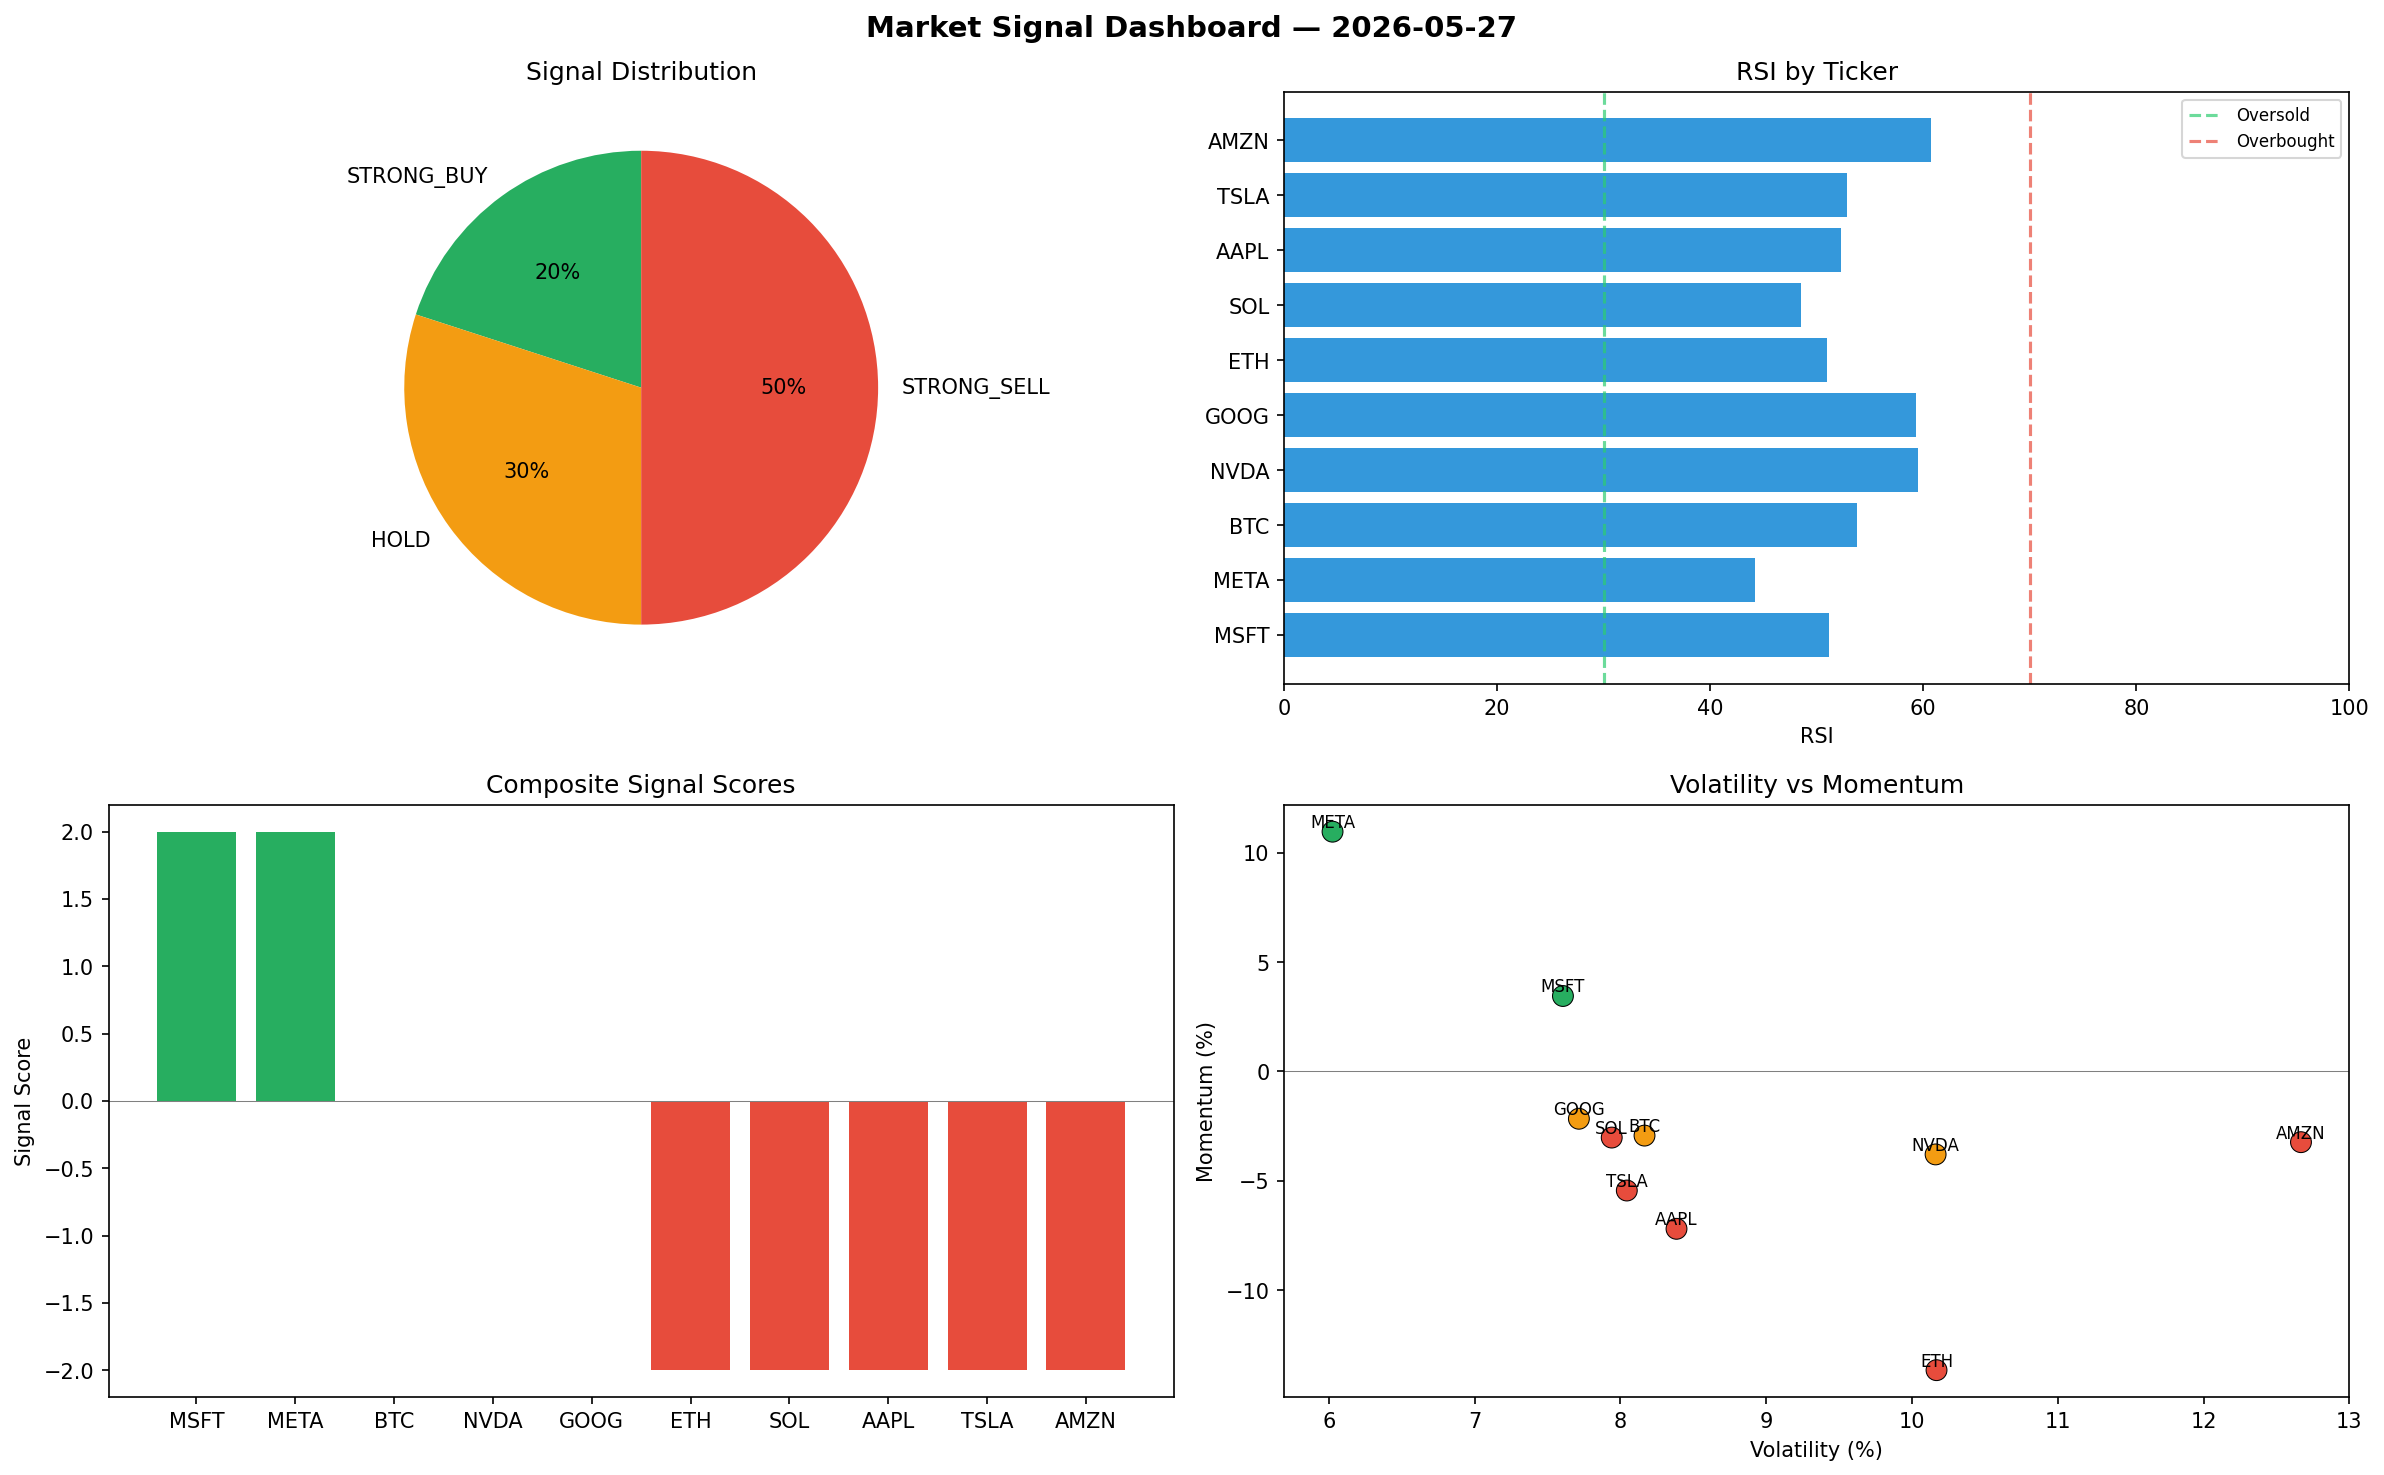
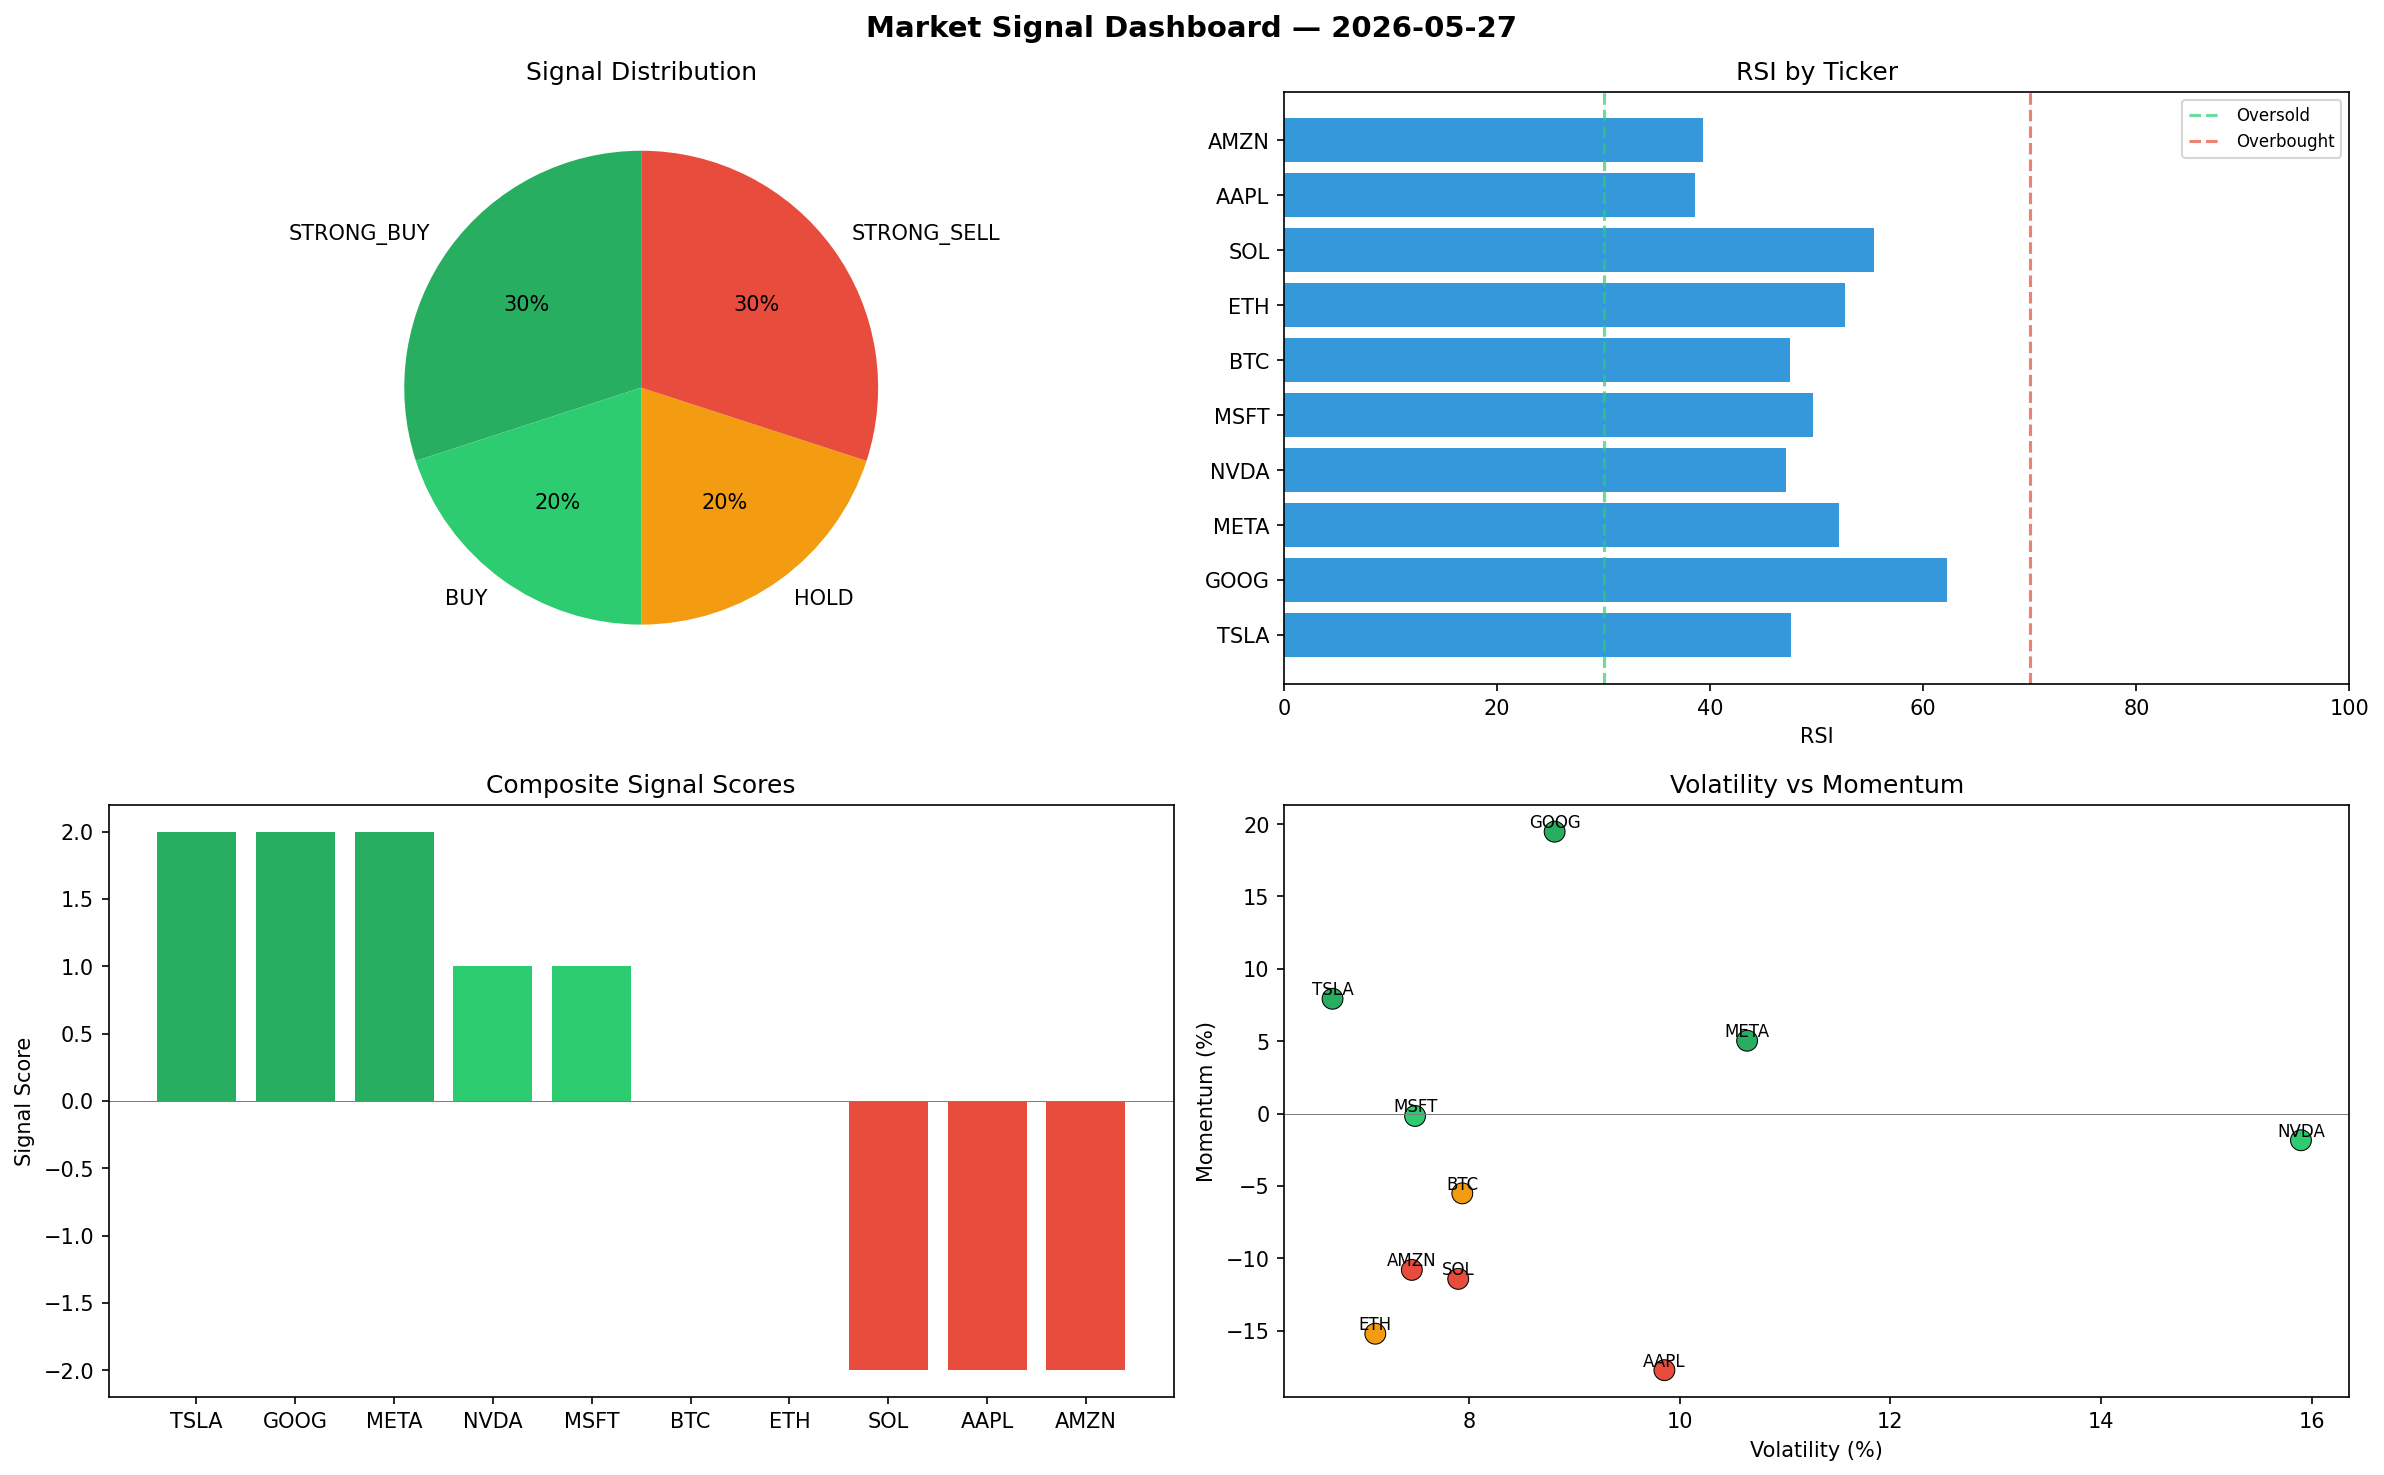
automated-bots: market signals 2026-05-27T11:52

diff --git a/logs/2026-05-27.md b/logs/2026-05-27.md
@@ -1,6 +1,6 @@
 # Market Signal Report — 2026-05-27
 
-**Run ID:** `2da9a7d360` | **Buy:** 2 | **Sell:** 5 | **Hold:** 3
+**Run ID:** `a2fcaa5a03` | **Buy:** 5 | **Sell:** 3 | **Hold:** 2
 
 ![Dashboard](2026-05-27_dashboard.png)
 
@@ -8,28 +8,28 @@
 
 | Ticker | Price | Signal | Score | RSI | Momentum | Confidence |
 |--------|-------|--------|-------|-----|----------|------------|
-| MSFT | $2900.81 | **STRONG_BUY** | 2 | 51.14 | 0.0345 | 0.5 |
-| META | $5453.07 | **STRONG_BUY** | 2 | 44.24 | 0.1096 | 0.5 |
-| BTC | $4568.8 | **HOLD** | 0 | 53.8 | -0.0293 | 0.0 |
-| NVDA | $4235.32 | **HOLD** | 0 | 59.54 | -0.0379 | 0.0 |
-| GOOG | $2051.62 | **HOLD** | 0 | 59.28 | -0.0216 | 0.0 |
-| ETH | $461.23 | **STRONG_SELL** | -2 | 50.99 | -0.1365 | 0.5 |
-| SOL | $2295.62 | **STRONG_SELL** | -2 | 48.52 | -0.0302 | 0.5 |
-| AAPL | $4696.75 | **STRONG_SELL** | -2 | 52.29 | -0.0719 | 0.5 |
-| TSLA | $1879.06 | **STRONG_SELL** | -2 | 52.83 | -0.0544 | 0.5 |
-| AMZN | $227.37 | **STRONG_SELL** | -2 | 60.74 | -0.0323 | 0.5 |
+| TSLA | $3294.98 | **STRONG_BUY** | 2 | 47.6 | 0.0793 | 0.5 |
+| GOOG | $4105.23 | **STRONG_BUY** | 2 | 62.23 | 0.1948 | 0.5 |
+| META | $1160.6 | **STRONG_BUY** | 2 | 52.13 | 0.0503 | 0.5 |
+| NVDA | $4270.25 | **BUY** | 1 | 47.1 | -0.0185 | 0.25 |
+| MSFT | $2297.85 | **BUY** | 1 | 49.67 | -0.0017 | 0.25 |
+| BTC | $2084.07 | **HOLD** | 0 | 47.48 | -0.0552 | 0.0 |
+| ETH | $3328.72 | **HOLD** | 0 | 52.61 | -0.1522 | 0.0 |
+| SOL | $1223.1 | **STRONG_SELL** | -2 | 55.38 | -0.1143 | 0.5 |
+| AAPL | $1968.78 | **STRONG_SELL** | -2 | 38.6 | -0.1774 | 0.5 |
+| AMZN | $760.35 | **STRONG_SELL** | -2 | 39.35 | -0.1081 | 0.5 |
 
 ## Delta vs Yesterday
 
 | Ticker | Today | Yesterday | Price Change | Signal Changed |
 |--------|-------|-----------|-------------|----------------|
-| MSFT | STRONG_BUY | HOLD | 📉 -43.94% | ⚠ YES |
-| META | STRONG_BUY | STRONG_BUY | 📈 75.79% | — |
-| BTC | HOLD | SELL | 📈 1015.97% | ⚠ YES |
-| NVDA | HOLD | HOLD | 📈 2298.12% | — |
-| GOOG | HOLD | STRONG_BUY | 📉 -46.08% | ⚠ YES |
-| ETH | STRONG_SELL | STRONG_SELL | 📉 -59.53% | — |
-| SOL | STRONG_SELL | STRONG_SELL | 📈 881.41% | — |
-| AAPL | STRONG_SELL | STRONG_SELL | 📈 489.38% | — |
-| TSLA | STRONG_SELL | BUY | 📉 -8.48% | ⚠ YES |
-| AMZN | STRONG_SELL | STRONG_SELL | 📉 -93.25% | — |
+| TSLA | STRONG_BUY | BUY | 📈 60.48% | ⚠ YES |
+| GOOG | STRONG_BUY | STRONG_BUY | 📈 7.89% | — |
+| META | STRONG_BUY | STRONG_BUY | 📉 -62.59% | — |
+| NVDA | BUY | HOLD | 📈 2317.9% | ⚠ YES |
+| MSFT | BUY | HOLD | 📉 -55.59% | ⚠ YES |
+| BTC | HOLD | SELL | 📈 409.05% | ⚠ YES |
+| ETH | HOLD | STRONG_SELL | 📈 192.04% | ⚠ YES |
+| SOL | STRONG_SELL | STRONG_SELL | 📈 422.89% | — |
+| AAPL | STRONG_SELL | STRONG_SELL | 📈 147.05% | — |
+| AMZN | STRONG_SELL | STRONG_SELL | 📉 -77.43% | — |
